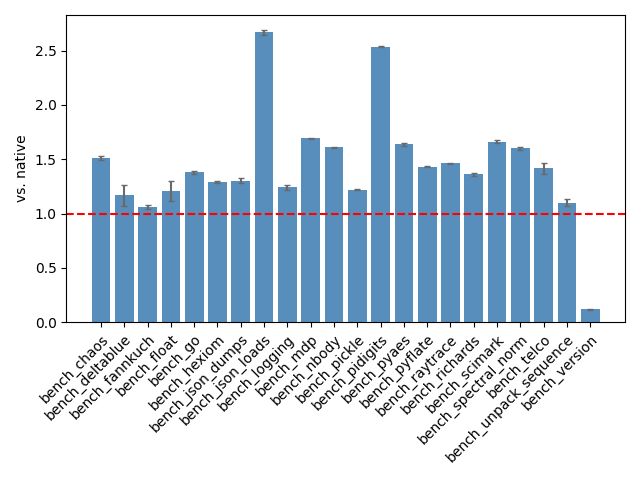
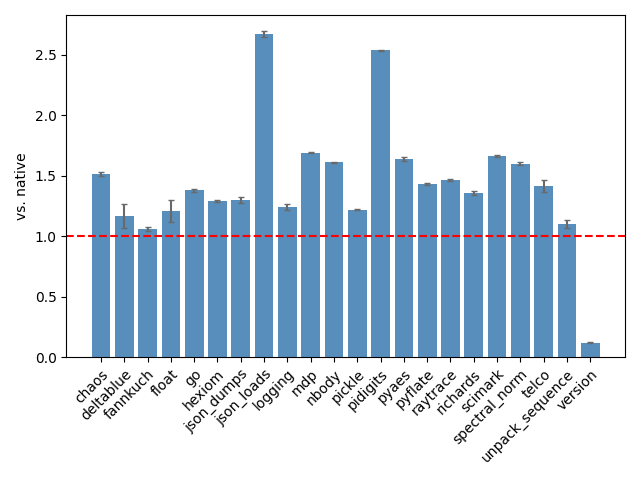
Remove bench_ from labels

diff --git a/tasks/plot.py b/tasks/plot.py
@@ -64,7 +64,7 @@ def pyperf(ctx, headless=False):
         for f, n in zip(faasm_execs, native_execs):
             faasm_ratios.append(f / n)
 
-        bench_names.append(bench_name)
+        bench_names.append(bench_name.replace("bench_", ""))
         exec_times.append(np.mean(faasm_ratios))
         exec_errs.append(np.std(faasm_ratios))
 
